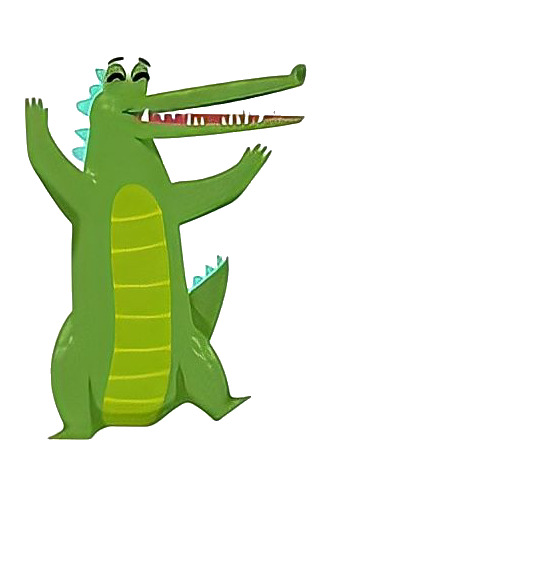
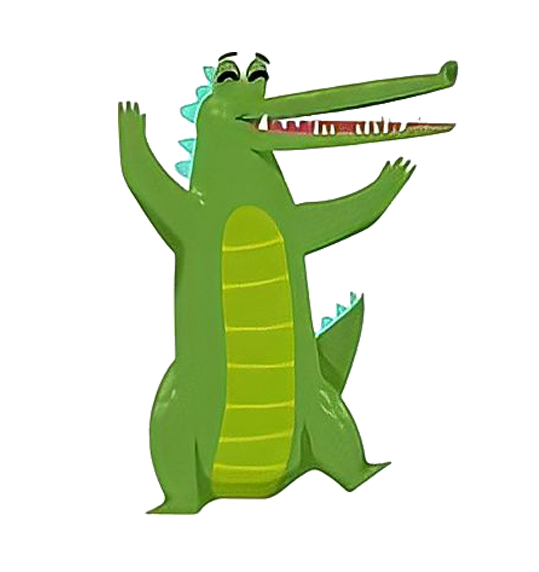
changePet

diff --git a/HappyPetGameDuniawi/FormChangePet.Designer.cs b/HappyPetGameDuniawi/FormChangePet.Designer.cs
@@ -43,6 +43,12 @@ namespace HappyPetGameDuniawi
             this.label6 = new System.Windows.Forms.Label();
             this.label1 = new System.Windows.Forms.Label();
             this.labelPlayerData = new System.Windows.Forms.Label();
+            this.radioButtonPenguin = new System.Windows.Forms.RadioButton();
+            this.label4 = new System.Windows.Forms.Label();
+            this.radioButtonMonkey = new System.Windows.Forms.RadioButton();
+            this.label3 = new System.Windows.Forms.Label();
+            this.radioButtonCrocodile = new System.Windows.Forms.RadioButton();
+            this.label2 = new System.Windows.Forms.Label();
             this.SuspendLayout();
             // 
             // radioButtonFish
@@ -51,9 +57,9 @@ namespace HappyPetGameDuniawi
             this.radioButtonFish.BackgroundImage = global::HappyPetGameDuniawi.Properties.Resources.fish_happy;
             this.radioButtonFish.BackgroundImageLayout = System.Windows.Forms.ImageLayout.Stretch;
             this.radioButtonFish.CheckAlign = System.Drawing.ContentAlignment.TopLeft;
-            this.radioButtonFish.Location = new System.Drawing.Point(289, 188);
+            this.radioButtonFish.Location = new System.Drawing.Point(289, 132);
             this.radioButtonFish.Name = "radioButtonFish";
-            this.radioButtonFish.Size = new System.Drawing.Size(215, 173);
+            this.radioButtonFish.Size = new System.Drawing.Size(215, 215);
             this.radioButtonFish.TabIndex = 16;
             this.radioButtonFish.TabStop = true;
             this.radioButtonFish.UseVisualStyleBackColor = false;
@@ -65,9 +71,9 @@ namespace HappyPetGameDuniawi
             this.radioButtonCat.BackgroundImage = global::HappyPetGameDuniawi.Properties.Resources.cat_happy;
             this.radioButtonCat.BackgroundImageLayout = System.Windows.Forms.ImageLayout.Stretch;
             this.radioButtonCat.CheckAlign = System.Drawing.ContentAlignment.TopLeft;
-            this.radioButtonCat.Location = new System.Drawing.Point(55, 185);
+            this.radioButtonCat.Location = new System.Drawing.Point(55, 132);
             this.radioButtonCat.Name = "radioButtonCat";
-            this.radioButtonCat.Size = new System.Drawing.Size(197, 179);
+            this.radioButtonCat.Size = new System.Drawing.Size(197, 218);
             this.radioButtonCat.TabIndex = 17;
             this.radioButtonCat.TabStop = true;
             this.radioButtonCat.UseVisualStyleBackColor = false;
@@ -79,9 +85,9 @@ namespace HappyPetGameDuniawi
             this.radioButtonChameleon.BackgroundImage = global::HappyPetGameDuniawi.Properties.Resources.chameleonG_def;
             this.radioButtonChameleon.BackgroundImageLayout = System.Windows.Forms.ImageLayout.Stretch;
             this.radioButtonChameleon.CheckAlign = System.Drawing.ContentAlignment.TopLeft;
-            this.radioButtonChameleon.Location = new System.Drawing.Point(560, 185);
+            this.radioButtonChameleon.Location = new System.Drawing.Point(560, 132);
             this.radioButtonChameleon.Name = "radioButtonChameleon";
-            this.radioButtonChameleon.Size = new System.Drawing.Size(210, 176);
+            this.radioButtonChameleon.Size = new System.Drawing.Size(210, 215);
             this.radioButtonChameleon.TabIndex = 18;
             this.radioButtonChameleon.TabStop = true;
             this.radioButtonChameleon.UseVisualStyleBackColor = false;
@@ -91,7 +97,7 @@ namespace HappyPetGameDuniawi
             // 
             this.labelChameleon.BackColor = System.Drawing.Color.Transparent;
             this.labelChameleon.Font = new System.Drawing.Font("Comic Sans MS", 12F, System.Drawing.FontStyle.Bold, System.Drawing.GraphicsUnit.Point, ((byte)(0)));
-            this.labelChameleon.Location = new System.Drawing.Point(598, 367);
+            this.labelChameleon.Location = new System.Drawing.Point(598, 353);
             this.labelChameleon.Name = "labelChameleon";
             this.labelChameleon.Size = new System.Drawing.Size(119, 34);
             this.labelChameleon.TabIndex = 21;
@@ -102,7 +108,7 @@ namespace HappyPetGameDuniawi
             // 
             this.labelFish.BackColor = System.Drawing.Color.Transparent;
             this.labelFish.Font = new System.Drawing.Font("Comic Sans MS", 12F, System.Drawing.FontStyle.Bold, System.Drawing.GraphicsUnit.Point, ((byte)(0)));
-            this.labelFish.Location = new System.Drawing.Point(369, 367);
+            this.labelFish.Location = new System.Drawing.Point(369, 353);
             this.labelFish.Name = "labelFish";
             this.labelFish.Size = new System.Drawing.Size(63, 34);
             this.labelFish.TabIndex = 22;
@@ -113,7 +119,7 @@ namespace HappyPetGameDuniawi
             // 
             this.labelCat.BackColor = System.Drawing.Color.Transparent;
             this.labelCat.Font = new System.Drawing.Font("Comic Sans MS", 12F, System.Drawing.FontStyle.Bold, System.Drawing.GraphicsUnit.Point, ((byte)(0)));
-            this.labelCat.Location = new System.Drawing.Point(123, 367);
+            this.labelCat.Location = new System.Drawing.Point(123, 353);
             this.labelCat.Name = "labelCat";
             this.labelCat.Size = new System.Drawing.Size(58, 34);
             this.labelCat.TabIndex = 23;
@@ -122,14 +128,14 @@ namespace HappyPetGameDuniawi
             // 
             // textBoxPetName
             // 
-            this.textBoxPetName.Location = new System.Drawing.Point(302, 421);
+            this.textBoxPetName.Location = new System.Drawing.Point(302, 702);
             this.textBoxPetName.Name = "textBoxPetName";
             this.textBoxPetName.Size = new System.Drawing.Size(127, 22);
             this.textBoxPetName.TabIndex = 29;
             // 
             // textBoxPlayer
             // 
-            this.textBoxPlayer.Location = new System.Drawing.Point(170, 48);
+            this.textBoxPlayer.Location = new System.Drawing.Point(170, 36);
             this.textBoxPlayer.Name = "textBoxPlayer";
             this.textBoxPlayer.Size = new System.Drawing.Size(154, 22);
             this.textBoxPlayer.TabIndex = 28;
@@ -142,7 +148,7 @@ namespace HappyPetGameDuniawi
             "River",
             "Sea",
             "Pond"});
-            this.comboBoxEnv.Location = new System.Drawing.Point(616, 420);
+            this.comboBoxEnv.Location = new System.Drawing.Point(616, 701);
             this.comboBoxEnv.Name = "comboBoxEnv";
             this.comboBoxEnv.Size = new System.Drawing.Size(121, 24);
             this.comboBoxEnv.TabIndex = 27;
@@ -150,7 +156,7 @@ namespace HappyPetGameDuniawi
             // buttonPlay
             // 
             this.buttonPlay.Font = new System.Drawing.Font("Comic Sans MS", 12F, System.Drawing.FontStyle.Bold, System.Drawing.GraphicsUnit.Point, ((byte)(0)));
-            this.buttonPlay.Location = new System.Drawing.Point(289, 503);
+            this.buttonPlay.Location = new System.Drawing.Point(289, 771);
             this.buttonPlay.Name = "buttonPlay";
             this.buttonPlay.Size = new System.Drawing.Size(213, 56);
             this.buttonPlay.TabIndex = 26;
@@ -161,7 +167,7 @@ namespace HappyPetGameDuniawi
             // labelEnv
             // 
             this.labelEnv.Font = new System.Drawing.Font("Comic Sans MS", 12F, System.Drawing.FontStyle.Bold, System.Drawing.GraphicsUnit.Point, ((byte)(0)));
-            this.labelEnv.Location = new System.Drawing.Point(452, 414);
+            this.labelEnv.Location = new System.Drawing.Point(452, 695);
             this.labelEnv.Name = "labelEnv";
             this.labelEnv.Size = new System.Drawing.Size(219, 34);
             this.labelEnv.TabIndex = 25;
@@ -170,7 +176,7 @@ namespace HappyPetGameDuniawi
             // label6
             // 
             this.label6.Font = new System.Drawing.Font("Comic Sans MS", 12F, System.Drawing.FontStyle.Bold, System.Drawing.GraphicsUnit.Point, ((byte)(0)));
-            this.label6.Location = new System.Drawing.Point(36, 414);
+            this.label6.Location = new System.Drawing.Point(36, 695);
             this.label6.Name = "label6";
             this.label6.Size = new System.Drawing.Size(261, 34);
             this.label6.TabIndex = 24;
@@ -179,7 +185,7 @@ namespace HappyPetGameDuniawi
             // label1
             // 
             this.label1.Font = new System.Drawing.Font("Comic Sans MS", 12F, System.Drawing.FontStyle.Bold, System.Drawing.GraphicsUnit.Point, ((byte)(0)));
-            this.label1.Location = new System.Drawing.Point(50, 109);
+            this.label1.Location = new System.Drawing.Point(50, 95);
             this.label1.Name = "label1";
             this.label1.Size = new System.Drawing.Size(219, 34);
             this.label1.TabIndex = 20;
@@ -188,18 +194,96 @@ namespace HappyPetGameDuniawi
             // labelPlayerData
             // 
             this.labelPlayerData.Font = new System.Drawing.Font("Comic Sans MS", 12F, System.Drawing.FontStyle.Bold, System.Drawing.GraphicsUnit.Point, ((byte)(0)));
-            this.labelPlayerData.Location = new System.Drawing.Point(50, 41);
+            this.labelPlayerData.Location = new System.Drawing.Point(50, 29);
             this.labelPlayerData.Name = "labelPlayerData";
             this.labelPlayerData.Size = new System.Drawing.Size(219, 34);
             this.labelPlayerData.TabIndex = 19;
             this.labelPlayerData.Text = "Player :";
+            // 
+            // radioButtonPenguin
+            // 
+            this.radioButtonPenguin.BackColor = System.Drawing.Color.Transparent;
+            this.radioButtonPenguin.BackgroundImage = global::HappyPetGameDuniawi.Properties.Resources.penguin_happy;
+            this.radioButtonPenguin.BackgroundImageLayout = System.Windows.Forms.ImageLayout.Stretch;
+            this.radioButtonPenguin.CheckAlign = System.Drawing.ContentAlignment.TopLeft;
+            this.radioButtonPenguin.Location = new System.Drawing.Point(47, 407);
+            this.radioButtonPenguin.Name = "radioButtonPenguin";
+            this.radioButtonPenguin.Size = new System.Drawing.Size(215, 215);
+            this.radioButtonPenguin.TabIndex = 34;
+            this.radioButtonPenguin.TabStop = true;
+            this.radioButtonPenguin.UseVisualStyleBackColor = false;
+            // 
+            // label4
+            // 
+            this.label4.BackColor = System.Drawing.Color.Transparent;
+            this.label4.Font = new System.Drawing.Font("Comic Sans MS", 12F, System.Drawing.FontStyle.Bold, System.Drawing.GraphicsUnit.Point, ((byte)(0)));
+            this.label4.Location = new System.Drawing.Point(86, 628);
+            this.label4.Name = "label4";
+            this.label4.Size = new System.Drawing.Size(134, 34);
+            this.label4.TabIndex = 35;
+            this.label4.Text = "Penguin";
+            this.label4.TextAlign = System.Drawing.ContentAlignment.TopCenter;
+            // 
+            // radioButtonMonkey
+            // 
+            this.radioButtonMonkey.BackColor = System.Drawing.Color.Transparent;
+            this.radioButtonMonkey.BackgroundImage = global::HappyPetGameDuniawi.Properties.Resources.monkey_happpy;
+            this.radioButtonMonkey.BackgroundImageLayout = System.Windows.Forms.ImageLayout.Stretch;
+            this.radioButtonMonkey.CheckAlign = System.Drawing.ContentAlignment.TopLeft;
+            this.radioButtonMonkey.Location = new System.Drawing.Point(552, 407);
+            this.radioButtonMonkey.Name = "radioButtonMonkey";
+            this.radioButtonMonkey.Size = new System.Drawing.Size(215, 215);
+            this.radioButtonMonkey.TabIndex = 32;
+            this.radioButtonMonkey.TabStop = true;
+            this.radioButtonMonkey.UseVisualStyleBackColor = false;
+            // 
+            // label3
+            // 
+            this.label3.BackColor = System.Drawing.Color.Transparent;
+            this.label3.Font = new System.Drawing.Font("Comic Sans MS", 12F, System.Drawing.FontStyle.Bold, System.Drawing.GraphicsUnit.Point, ((byte)(0)));
+            this.label3.Location = new System.Drawing.Point(610, 628);
+            this.label3.Name = "label3";
+            this.label3.Size = new System.Drawing.Size(97, 34);
+            this.label3.TabIndex = 33;
+            this.label3.Text = "Monkey";
+            this.label3.TextAlign = System.Drawing.ContentAlignment.TopCenter;
+            // 
+            // radioButtonCrocodile
+            // 
+            this.radioButtonCrocodile.BackColor = System.Drawing.Color.Transparent;
+            this.radioButtonCrocodile.BackgroundImage = global::HappyPetGameDuniawi.Properties.Resources.crocodile_happy;
+            this.radioButtonCrocodile.BackgroundImageLayout = System.Windows.Forms.ImageLayout.Stretch;
+            this.radioButtonCrocodile.CheckAlign = System.Drawing.ContentAlignment.TopLeft;
+            this.radioButtonCrocodile.Location = new System.Drawing.Point(287, 407);
+            this.radioButtonCrocodile.Name = "radioButtonCrocodile";
+            this.radioButtonCrocodile.Size = new System.Drawing.Size(215, 215);
+            this.radioButtonCrocodile.TabIndex = 30;
+            this.radioButtonCrocodile.TabStop = true;
+            this.radioButtonCrocodile.UseVisualStyleBackColor = false;
+            // 
+            // label2
+            // 
+            this.label2.BackColor = System.Drawing.Color.Transparent;
+            this.label2.Font = new System.Drawing.Font("Comic Sans MS", 12F, System.Drawing.FontStyle.Bold, System.Drawing.GraphicsUnit.Point, ((byte)(0)));
+            this.label2.Location = new System.Drawing.Point(329, 628);
+            this.label2.Name = "label2";
+            this.label2.Size = new System.Drawing.Size(133, 34);
+            this.label2.TabIndex = 31;
+            this.label2.Text = "Crocodile";
+            this.label2.TextAlign = System.Drawing.ContentAlignment.TopCenter;
             // 
             // FormChangePet
             // 
             this.AutoScaleDimensions = new System.Drawing.SizeF(8F, 16F);
             this.AutoScaleMode = System.Windows.Forms.AutoScaleMode.Font;
             this.BackColor = System.Drawing.Color.LemonChiffon;
-            this.ClientSize = new System.Drawing.Size(816, 587);
+            this.ClientSize = new System.Drawing.Size(816, 870);
+            this.Controls.Add(this.radioButtonPenguin);
+            this.Controls.Add(this.label4);
+            this.Controls.Add(this.radioButtonMonkey);
+            this.Controls.Add(this.label3);
+            this.Controls.Add(this.radioButtonCrocodile);
+            this.Controls.Add(this.label2);
             this.Controls.Add(this.radioButtonFish);
             this.Controls.Add(this.radioButtonCat);
             this.Controls.Add(this.radioButtonChameleon);
@@ -238,5 +322,11 @@ namespace HappyPetGameDuniawi
         private System.Windows.Forms.Label label6;
         private System.Windows.Forms.Label label1;
         private System.Windows.Forms.Label labelPlayerData;
+        private System.Windows.Forms.RadioButton radioButtonPenguin;
+        private System.Windows.Forms.Label label4;
+        private System.Windows.Forms.RadioButton radioButtonMonkey;
+        private System.Windows.Forms.Label label3;
+        private System.Windows.Forms.RadioButton radioButtonCrocodile;
+        private System.Windows.Forms.Label label2;
     }
 }

diff --git a/HappyPetGameDuniawi/FormSelectPet.Designer.cs b/HappyPetGameDuniawi/FormSelectPet.Designer.cs
@@ -203,7 +203,7 @@ namespace HappyPetGameDuniawi
             // radioButtonCrocodile
             // 
             this.radioButtonCrocodile.BackColor = System.Drawing.Color.Transparent;
-            this.radioButtonCrocodile.BackgroundImage = global::HappyPetGameDuniawi.Properties.Resources.fish_happy;
+            this.radioButtonCrocodile.BackgroundImage = global::HappyPetGameDuniawi.Properties.Resources.crocodile_happy;
             this.radioButtonCrocodile.BackgroundImageLayout = System.Windows.Forms.ImageLayout.Stretch;
             this.radioButtonCrocodile.CheckAlign = System.Drawing.ContentAlignment.TopLeft;
             this.radioButtonCrocodile.Location = new System.Drawing.Point(296, 408);
@@ -228,7 +228,7 @@ namespace HappyPetGameDuniawi
             // radioButtonMonkey
             // 
             this.radioButtonMonkey.BackColor = System.Drawing.Color.Transparent;
-            this.radioButtonMonkey.BackgroundImage = global::HappyPetGameDuniawi.Properties.Resources.fish_happy;
+            this.radioButtonMonkey.BackgroundImage = global::HappyPetGameDuniawi.Properties.Resources.monkey_happpy;
             this.radioButtonMonkey.BackgroundImageLayout = System.Windows.Forms.ImageLayout.Stretch;
             this.radioButtonMonkey.CheckAlign = System.Drawing.ContentAlignment.TopLeft;
             this.radioButtonMonkey.Location = new System.Drawing.Point(561, 408);
@@ -253,7 +253,7 @@ namespace HappyPetGameDuniawi
             // radioButtonPenguin
             // 
             this.radioButtonPenguin.BackColor = System.Drawing.Color.Transparent;
-            this.radioButtonPenguin.BackgroundImage = global::HappyPetGameDuniawi.Properties.Resources.fish_happy;
+            this.radioButtonPenguin.BackgroundImage = global::HappyPetGameDuniawi.Properties.Resources.penguin_happy;
             this.radioButtonPenguin.BackgroundImageLayout = System.Windows.Forms.ImageLayout.Stretch;
             this.radioButtonPenguin.CheckAlign = System.Drawing.ContentAlignment.TopLeft;
             this.radioButtonPenguin.Location = new System.Drawing.Point(56, 408);

diff --git a/HappyPetGameDuniawi/FormGame.Designer.cs b/HappyPetGameDuniawi/FormGame.Designer.cs
@@ -96,21 +96,21 @@ namespace HappyPetGameDuniawi
             // playGameToolStripMenuItem
             // 
             this.playGameToolStripMenuItem.Name = "playGameToolStripMenuItem";
-            this.playGameToolStripMenuItem.Size = new System.Drawing.Size(224, 34);
+            this.playGameToolStripMenuItem.Size = new System.Drawing.Size(215, 34);
             this.playGameToolStripMenuItem.Text = "Play Game";
             this.playGameToolStripMenuItem.Click += new System.EventHandler(this.playGameToolStripMenuItem_Click);
             // 
             // changePetToolStripMenuItem
             // 
             this.changePetToolStripMenuItem.Name = "changePetToolStripMenuItem";
-            this.changePetToolStripMenuItem.Size = new System.Drawing.Size(224, 34);
+            this.changePetToolStripMenuItem.Size = new System.Drawing.Size(215, 34);
             this.changePetToolStripMenuItem.Text = "Change Pet";
             this.changePetToolStripMenuItem.Click += new System.EventHandler(this.changePetToolStripMenuItem_Click);
             // 
             // resetGameToolStripMenuItem
             // 
             this.resetGameToolStripMenuItem.Name = "resetGameToolStripMenuItem";
-            this.resetGameToolStripMenuItem.Size = new System.Drawing.Size(224, 34);
+            this.resetGameToolStripMenuItem.Size = new System.Drawing.Size(215, 34);
             this.resetGameToolStripMenuItem.Text = "Reset Game";
             this.resetGameToolStripMenuItem.Click += new System.EventHandler(this.resetGameToolStripMenuItem_Click);
             // 
